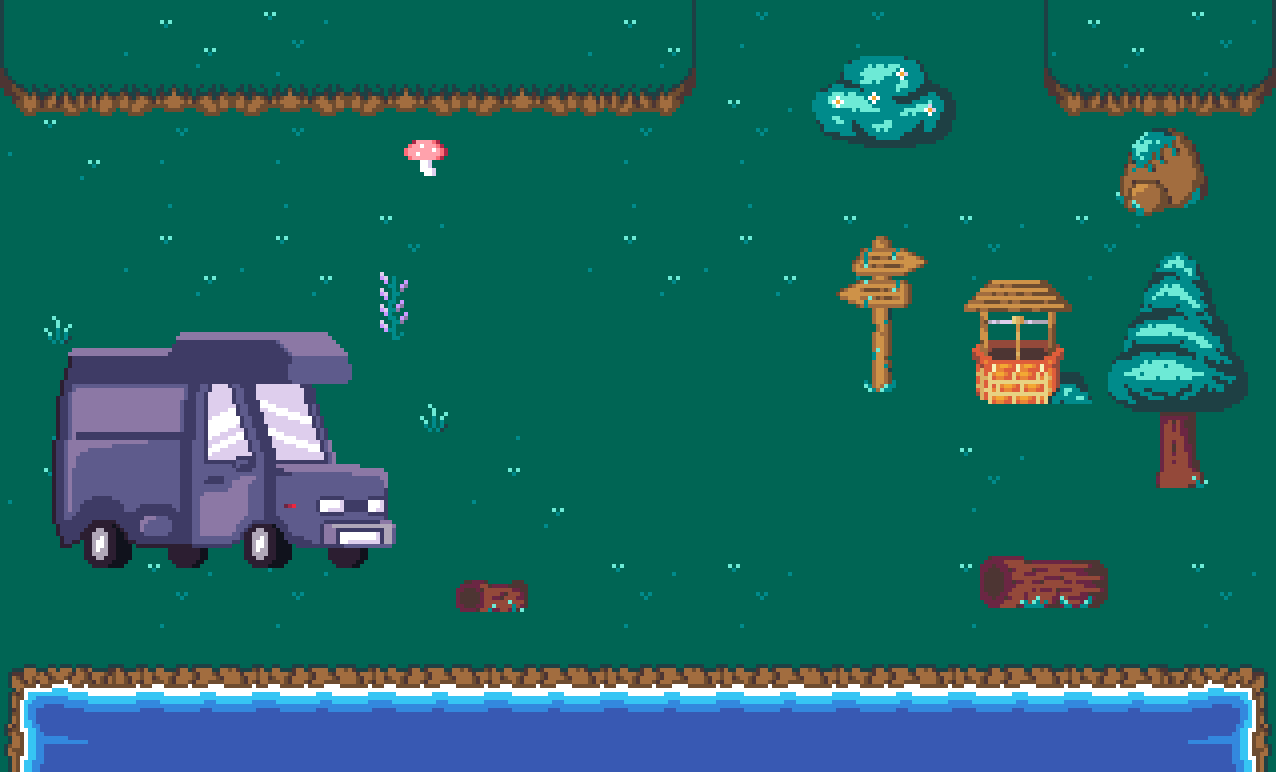
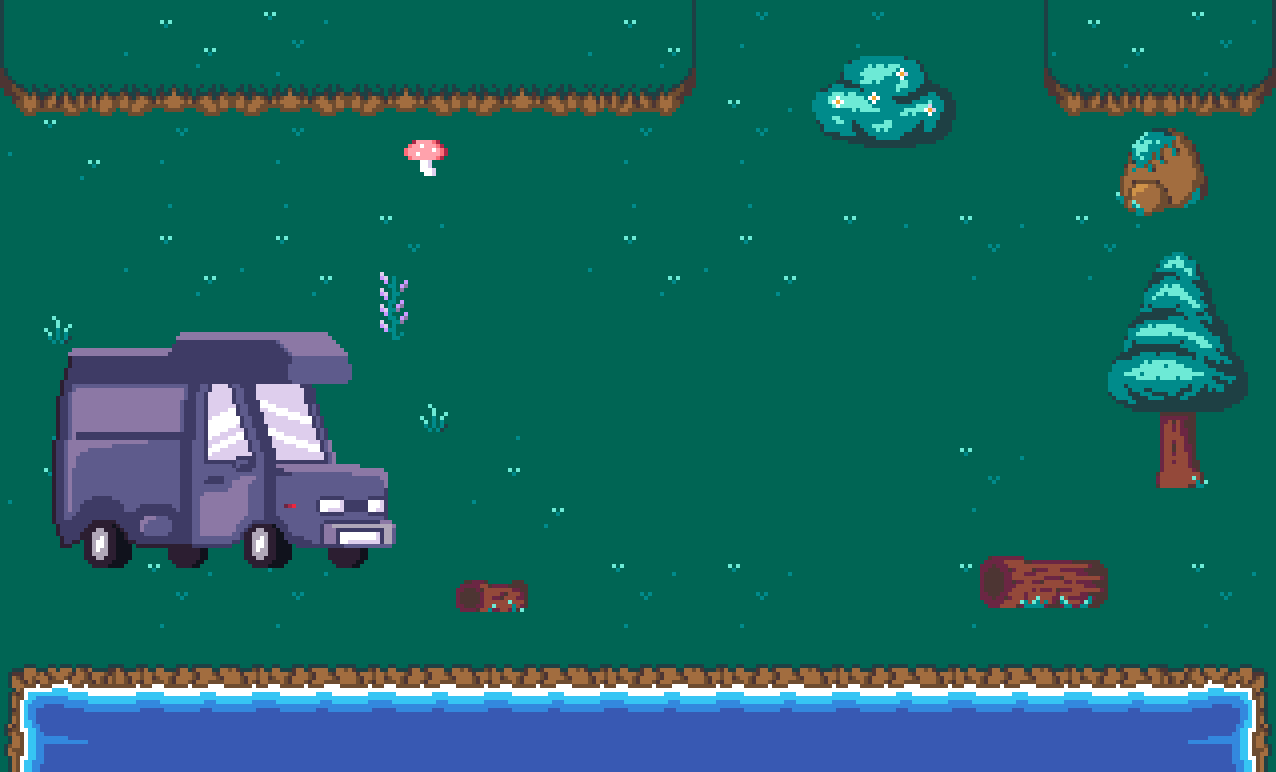
Game versie 4

Changed region(s): [[0.6418, 0.3109, 0.8558, 0.5285]]

diff --git a/js/slimeGarden.js b/js/slimeGarden.js
@@ -1,58 +1,65 @@
 /* START */
-
-let hintActive = false;
-let hint = document.querySelector("#hint");
-let hintStatus = false;
-hint.src = "img/Hint.png";
-
-/* (bron audio: https://www.youtube.com/watch?v=eibsYJlaNsg) */
-let hintAudio = new Audio("sounds/hintgeluid.mp3");
-let healthActive = false;
-let kampvuur = document.querySelector("#kampvuur");
-let javier = document.querySelector("#javier");
-
-/* (bron audio: https://www.youtube.com/watch?v=i6PYS0SPwO4) */ 
-let kookAudio = new Audio("sounds/kookgeluid.mp3");
-let kookStatus = false;
-let maag = Math.ceil(Math.random()* 5);
-
-/* Achtergrondmuziek (bron: https://www.youtube.com/watch?v=XJsy5jJ7Dp0) */
-let muziek = new Audio("sounds/muziek.mp3");
-let muziekStatus = false;
-
-/* (bron audio: https://www.youtube.com/watch?v=RlvRyo4ofvM) */
-let voerAudio = new Audio("sounds/voergeluid.mp3");
-
-/* Array voor verschillende states (bron: If else opdracht) */
-let plaatjesHP = ['HP1.png', 'HP2.png', 'HP3.png', 'HP4.png', 'HP5.png', 'HP6.png'];
-let HPafbeelding = plaatjesHP[maag-1];
-
-let voer = maag;
-let vol = false;
-let buffActive = false;
-
 /* Constanten voor buttons */
 const ignis = document.querySelector("#ignis");
 const plusKnop = document.querySelector("#plus");
 const hintKnop = document.querySelector("#hint");
-const koken = document.querySelector("#kampvuur")
-const boombox = document.querySelector("#muziek")
+const kampvuur = document.querySelector("#kampvuur");
+const boombox = document.querySelector("#muziek");
+const health = document.querySelector("#health");
+const javier = document.querySelector("#javier");
+const hint = document.querySelector("#hint");
+const wegwijzer = document.querySelector("#wegwijzer");
+const wensput = document.querySelector("#wensput");
+/* (bron audio: https://www.youtube.com/watch?v=eibsYJlaNsg) */
+const hintAudio = new Audio("sounds/hintgeluid.mp3");
+
+/* (bron audio: https://www.youtube.com/watch?v=i6PYS0SPwO4) */ 
+const kookAudio = new Audio("sounds/kookgeluid.mp3");
+
+/* Achtergrondmuziek (bron: https://www.youtube.com/watch?v=XJsy5jJ7Dp0) */
+const muziek = new Audio("sounds/muziek.mp3");
+
+/* (bron audio: https://www.youtube.com/watch?v=RlvRyo4ofvM) */
+const voerAudio = new Audio("sounds/voergeluid.mp3");
+
+let hintActive = false;
+let hintStatus = false;
+let healthActive = false;
+let kookStatus = false;
+let maag = Math.ceil(Math.random()* 5);
+let muziekStatus = false;
+let kijkStatus = false;
+let wensStatus = false;
+
+/* Array voor verschillende states (bron: If else opdracht) */
+let plaatjesHP = ['HP1.png', 'HP2.png', 'HP3.png', 'HP4.png', 'HP5.png', 'HP6.png'];
+let HPafbeelding = plaatjesHP[maag-1];
+let voer = maag;
+let vol = false;
+let buffActive = false;
 
 document.querySelector("img").src = 'img/'+HPafbeelding;
 
-koken.src = "img/Kampvuur.gif";
+kampvuur.src = "img/Kampvuur.gif";
+hint.src = "img/Hint.png";
 
 /* HINT INTERACTIE MECHANISME (bron eigen research: https://gomakethings.com/how-to-play-a-sound-with-javascript/) */
 function Tutorial(){
     hintAudio.play();
-    hintActive = !hintactive;
+    hintActive = !hintActive;
     if(hintActive == true){
-        document.getElementById("speler").style.display = 'none';
-        document.getElementById("slimes").style.display = 'none';
-        document.getElementById("muziek").style.display = 'none';
-    } else {document.getElementById("speler").style.display = 'block';
-            document.getElementById("slimes").style.display = 'block';
-            document.getElementById("muziek").style.display = 'block';
+        javier.style.display = 'none';
+        ignis.style.display = 'none';
+        boombox.style.display = 'none';
+        kampvuur.style.display = 'none';
+        wegwijzer.style.display = 'none';
+        wensput.style.display = 'none';
+    } else {javier.style.display = 'block';
+            ignis.style.display = 'block';
+            boombox.style.display = 'block';
+            kampvuur.style.display = 'block';
+            wegwijzer.style.display = 'block';
+            wensput.style.display = 'block';
     }
     if (hintStatus == true){
         hint.src = "img/Tutorial.png"
@@ -75,21 +82,21 @@ if (hintStatus == true){
 function InteractieSlime() {
     healthActive = !healthActive;
     if(healthActive == true){
-        document.getElementById("health").style.display = 'block';
-    } else {document.getElementById("health").style.display = 'none';}
+        health.style.display = 'block';
+    } else {health.style.display = 'none';}
 }
 
 /* KOOK MECHANISME (bron: Lightbulb opdracht) */
 function Koken(){
     if (kookStatus == true){
-        koken.src = "img/Kampvuur.gif"
+        kampvuur.src = "img/Kampvuur.gif"
         kookStatus = false
-        document.getElementById("javier").style.display = 'block';
+        javier.style.display = 'block';
         kookAudio.pause();
     } else {
-        koken.src = "img/Koken.gif"
+        kampvuur.src = "img/Koken.gif"
         kookStatus = true
-        document.getElementById("javier").style.display = 'none';
+        javier.style.display = 'none';
         kookAudio.play();
         setTimeout(function(){
             buffActive = true;
@@ -98,24 +105,21 @@ function Koken(){
 }
 
 if (kookStatus == true){
-    koken.src = "img/Koken.gif"
+    kampvuur.src = "img/Koken.gif"
     kookStatus = false
-    document.getElementById("javier").style.display = 'block';
+    speler.style.display = 'block';
 }
 
 /* VOEDING MECHANISME (bron: Myster number opdracht) */
 function meerVoeren(){
     if (buffActive == false){
         voer = voer + 1;
-        ignis.src = "img/IgnisEten.gif"
-        voerAudio.play();
-        updateVoeding();
     } else if (buffActive == true){
         voer = voer + 2;
-        ignis.src = "img/IgnisEten.gif"
-        voerAudio.play();
-        updateVoeding();
     }
+    ignis.src = "img/IgnisEten.gif"
+    voerAudio.play();
+    updateVoeding();
 }
 
 function updateVoeding(){
@@ -152,12 +156,12 @@ function updateVoeding(){
 function Muziekdraaien(){
     if (muziekStatus == true){
         boombox.src = "img/Boombox.png"
-        document.getElementById("muziek").style.display = 'block';
+        boombox.style.display = 'block';
         muziekStatus = false
         muziek.pause();
     } else {
         boombox.src = "img/BoomboxActive.gif"
-        document.getElementById("muziek").style.display = 'block';
+        boombox.style.display = 'block';
         muziekStatus = true
         muziek.play();
     }
@@ -165,15 +169,51 @@ function Muziekdraaien(){
 
 if (muziekStatus == true){
     boombox.src = "img/Boombox.png"
-    document.getElementById("muziek").style.display = 'block';
+    boombox.style.display = 'block';
     muziekStatus = false
+}
+
+function Kijken(){
+    if (kijkStatus == true){
+        wegwijzer.src = "img/Wegwijzer.png"
+        kijkStatus = false
+        javier.style.display = 'block';
+    } else {
+        wegwijzer.src = "img/Kijken.png"
+        kijkStatus = true
+        javier.style.display = 'none';
+    }
+}
+
+if (kijkStatus == true){
+    wegwijzer.src = "img/Wijzen.png"
+    kijkStatus = false
+    javier.style.display = 'block';
+}
+
+function Wensen(){
+    if (wensStatus == true){
+        wensput.src = "img/Wensput.png"
+        wensStatus = false
+        javier.style.display = 'block';
+    } else {
+        wensput.src = "img/wens.gif"
+        wensStatus = true
+        javier.style.display = 'none';
+    }
+}
+
+if (wensStatus == true){
+    wensput.src = "img/wens.gif"
+    wensStatus = false
+    javier.style.display = 'block';
 }
 
 /* Als de slime vol zit zorgt deze functie ervoor dat hij weer honger krijgt (bron: Diego Ramon) */
 setInterval(function(){if (vol == true){
     voer--;
     updateVoeding();
-}}, 8000)
+}}, 5000)
 
 /* Timer voor de kookfunctie */
 setInterval(function(){if (kookStatus == true){
@@ -183,9 +223,21 @@ setInterval(function(){if (kookStatus == true){
     }, 10000)
 }}, 8000)
 
+/* Timer voor de interactie met de wegwijzer */
+setInterval(function(){if (kijkStatus == true){
+    Kijken();
+}}, 2000)
+
+/* Timer voor de interactie met de wensput */
+setInterval(function(){if (wensStatus == true){
+    Wensen();
+}}, 2000)
+
 /* Events voor bruikbare knoppen */
 hintKnop.addEventListener('click', Tutorial)
-ignis.addEventListener("click", InteractieSlime)
+ignis.addEventListener('click', InteractieSlime)
 kampvuur.addEventListener('click', Koken)
 plusKnop.addEventListener('click', meerVoeren)
 boombox.addEventListener('click', Muziekdraaien)
+wegwijzer.addEventListener('click', Kijken)
+wensput.addEventListener('click', Wensen)

diff --git a/index.html b/index.html
@@ -18,9 +18,12 @@
         <section>
             <img id="hint" src="img/Hint.png">
             <img id="muziek" src="img/Boombox.png">
+            <img id="wegwijzer" src="img/Wegwijzer.png">
+            <img id="wensput" src="img/Wensput.png">
+
         </section>
 
-        <div class="huisdieren" id="slimes">
+        <div class="huisdier" id="slime">
             <img id="ignis" src="img/IgnisNiks.gif">
         </div>
 

diff --git a/style.css b/style.css
@@ -51,7 +51,7 @@ body{
     margin-left: 70vh;
 }
 
-#slimes{
+#slime{
     margin-left: 70vh;
 }
 
@@ -60,4 +60,18 @@ body{
     position: fixed;
     margin-left: 115vh;
     margin-top: 12vh;
+}
+
+#wegwijzer{
+    display: block;
+    position: fixed;
+    margin-left: 124vh;
+    margin-top: 20vh;
+}
+
+#wensput{
+    display: block;
+    position: fixed;
+    margin-left: 145vh;
+    margin-top: 25vh;
 }
